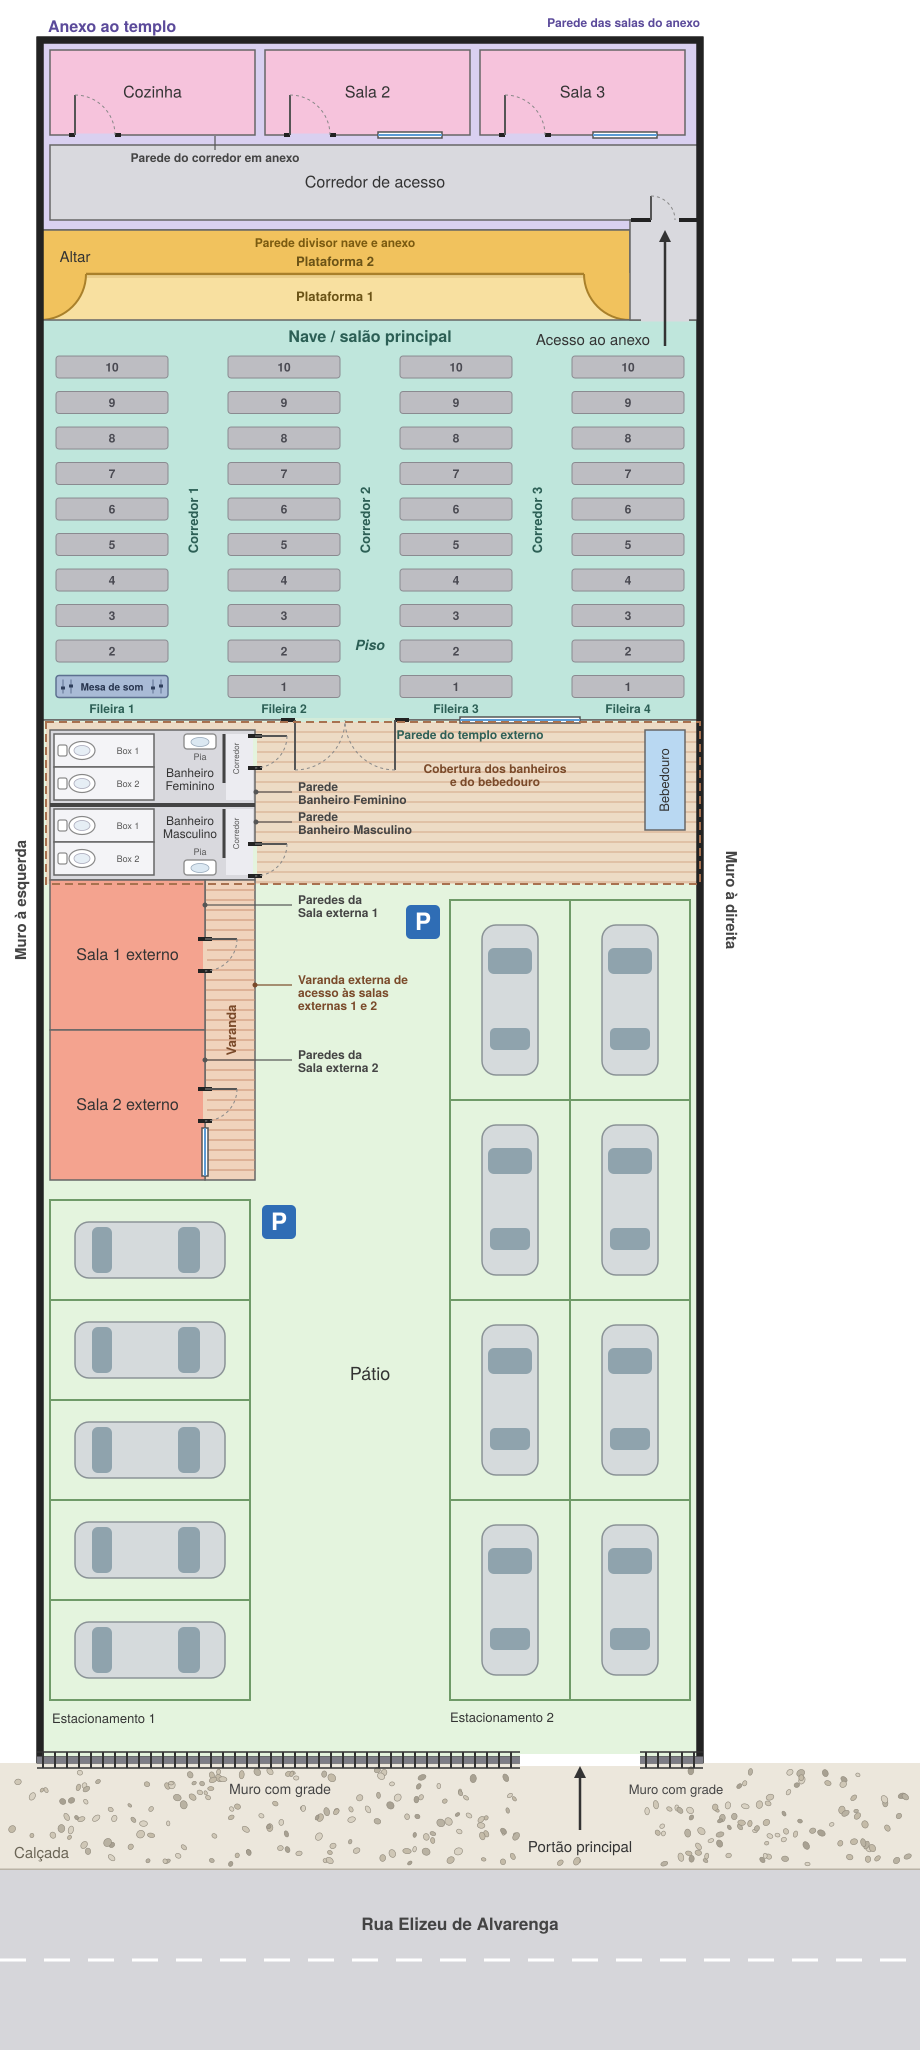
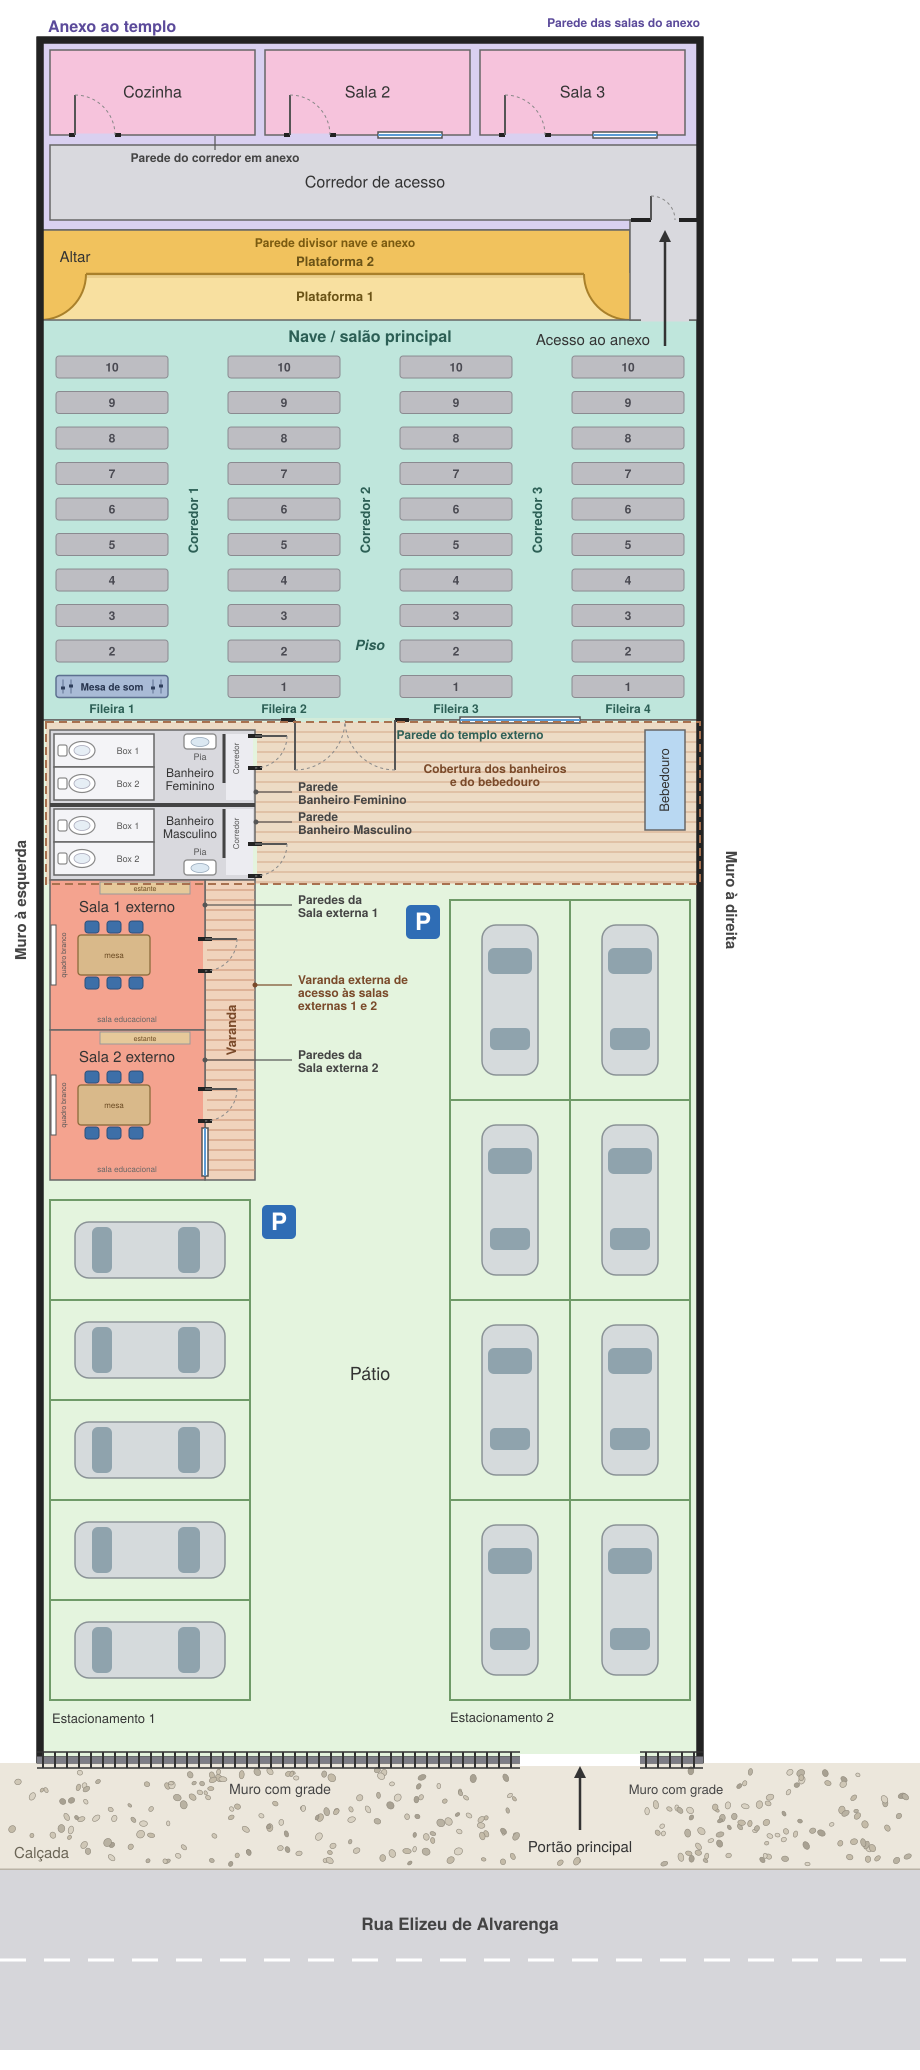
Salas externas (Igreja Atual e Maquete 2): mesa, cadeiras, quadro branco e estante
Claude-Session: https://claude.ai/code/session_015gh4tS64wXyJ2ghbw66cFX

Changed region(s): [[0.0304, 0.4019, 0.213, 0.5565]]

diff --git a/atual/maquete.html b/atual/maquete.html
@@ -557,6 +557,29 @@
   vwall(50, 730, 880, BH, [], 'HALF'); vwall(50, 880, 1180, BH, [], 'HALF');
   vwall(255, 730, 880, BH, [{ a: 730, b: 774.5, lh: 2.1 }, { a: 837.5, b: 880, lh: 2.1 }], 'HALF');   // portas: Feminino (cima) / Masculino (baixo)
   vwall(205, 880, 1180, BH, [door(955), door(1090), win(1146)], 'HALF');   // portas das salas externas + janela da Sala 2 externo (lado da varanda)
+
+  // ---- Salas educacionais externas (Sala 1 e Sala 2): mesa, 6 cadeiras escolares, quadro branco e estante ----
+  (function(){
+    function eduRoom(y0, y1){
+      var yc = (y0 + y1) / 2, wood = 0xd9b98a, blue = 0x3d6fa8, grey = 0x8a8f94;
+      box(1.45, 0.04, 0.8, wood, X(114), 0.74, Z(yc));
+      [[-0.65, -0.34], [0.65, -0.34], [-0.65, 0.34], [0.65, 0.34]].forEach(function(o){ box(0.05, 0.72, 0.05, grey, X(114) + o[0], 0.36, Z(yc) + o[1]); });
+      [92, 114, 136].forEach(function(cx){
+        [-1, 1].forEach(function(sg){
+          var cz = Z(yc) + sg * 0.56;
+          box(0.4, 0.04, 0.4, blue, X(cx), 0.45, cz);
+          box(0.4, 0.38, 0.04, blue, X(cx), 0.68, cz + sg * 0.2);
+          [[-0.17, -0.17], [0.17, -0.17], [-0.17, 0.17], [0.17, 0.17]].forEach(function(o){ box(0.03, 0.43, 0.03, grey, X(cx) + o[0], 0.215, cz + o[1]); });
+        });
+      });
+      box(0.03, 1.0, 1.8, 0xffffff, X(50) + 0.12, 1.5, Z(yc)); box(0.04, 1.06, 0.04, grey, X(50) + 0.12, 1.5, Z(yc) - 0.92); box(0.04, 1.06, 0.04, grey, X(50) + 0.12, 1.5, Z(yc) + 0.92);
+      box(0.06, 0.05, 1.86, grey, X(50) + 0.12, 0.98, Z(yc)); box(0.06, 0.05, 1.86, grey, X(50) + 0.12, 2.02, Z(yc));
+      var ez = Z(y0) + 0.12 + 0.18;
+      box(1.8, 1.8, 0.35, 0xe6c99a, X(145), 0.9, ez); [0.45, 0.9, 1.35].forEach(function(h){ box(1.74, 0.03, 0.33, 0xc9a87c, X(145), h, ez); });
+      [0xc0392b, 0x2e86c1, 0x27ae60, 0xf1c40f].forEach(function(c, i){ box(0.5, 0.3, 0.25, c, X(145) - 0.6 + i * 0.4, 0.62 + (i % 2) * 0.45, ez); });
+    }
+    eduRoom(880, 1030); eduRoom(1030, 1180);
+  })();
   [955, 1090].forEach(function(c){ doorLeaf(false, 205, c); });
   doorLeaf(false, 255, 752.25, 0.86, 2.08, 0.18); doorLeaf(false, 255, 858.75, 0.86, 2.08, 0.18);   // portas de madeira dos banheiros (acesso à pia): Feminino / Masculino
   [730, 805].forEach(function(y0){ [y0 + 20.5, y0 + 53.5].forEach(function(cy){ doorLeaf(false, 154, cy, 0.4, 1.68, 0.1); }); });   // portas de madeira dos boxes (acesso aos vasos)

diff --git a/projeto2/maquete.html b/projeto2/maquete.html
@@ -603,6 +603,29 @@
   vwall(50, 730, 880, BH, [], 'HALF'); vwall(50, 880, 1180, BH, [], 'HALF');
   vwall(255, 730, 880, BH, [{ a: 730, b: 774.5, lh: 2.1 }], 'HALF');   // PROJETO 2: porta da Sala de Apoio às Mamães   // portas: Feminino (cima) / Masculino (baixo)
   vwall(205, 880, 1180, BH, [door(955), door(1090), win(1146)], 'HALF');
+
+  // ---- Salas educacionais externas (Sala 1 e Sala 2): mesa, 6 cadeiras escolares, quadro branco e estante ----
+  (function(){
+    function eduRoom(y0, y1){
+      var yc = (y0 + y1) / 2, wood = 0xd9b98a, blue = 0x3d6fa8, grey = 0x8a8f94;
+      box(1.45, 0.04, 0.8, wood, X(114), 0.74, Z(yc));
+      [[-0.65, -0.34], [0.65, -0.34], [-0.65, 0.34], [0.65, 0.34]].forEach(function(o){ box(0.05, 0.72, 0.05, grey, X(114) + o[0], 0.36, Z(yc) + o[1]); });
+      [92, 114, 136].forEach(function(cx){
+        [-1, 1].forEach(function(sg){
+          var cz = Z(yc) + sg * 0.56;
+          box(0.4, 0.04, 0.4, blue, X(cx), 0.45, cz);
+          box(0.4, 0.38, 0.04, blue, X(cx), 0.68, cz + sg * 0.2);
+          [[-0.17, -0.17], [0.17, -0.17], [-0.17, 0.17], [0.17, 0.17]].forEach(function(o){ box(0.03, 0.43, 0.03, grey, X(cx) + o[0], 0.215, cz + o[1]); });
+        });
+      });
+      box(0.03, 1.0, 1.8, 0xffffff, X(50) + 0.12, 1.5, Z(yc)); box(0.04, 1.06, 0.04, grey, X(50) + 0.12, 1.5, Z(yc) - 0.92); box(0.04, 1.06, 0.04, grey, X(50) + 0.12, 1.5, Z(yc) + 0.92);
+      box(0.06, 0.05, 1.86, grey, X(50) + 0.12, 0.98, Z(yc)); box(0.06, 0.05, 1.86, grey, X(50) + 0.12, 2.02, Z(yc));
+      var ez = Z(y0) + 0.12 + 0.18;
+      box(1.8, 1.8, 0.35, 0xe6c99a, X(145), 0.9, ez); [0.45, 0.9, 1.35].forEach(function(h){ box(1.74, 0.03, 0.33, 0xc9a87c, X(145), h, ez); });
+      [0xc0392b, 0x2e86c1, 0x27ae60, 0xf1c40f].forEach(function(c, i){ box(0.5, 0.3, 0.25, c, X(145) - 0.6 + i * 0.4, 0.62 + (i % 2) * 0.45, ez); });
+    }
+    eduRoom(880, 1030); eduRoom(1030, 1180);
+  })();
   vwall(205, 1180, 1480, BH, [door(1215), win(1290), door(1365), win(1440)], 'HALF');   // PROJETO 2: portas e janelas da Cozinha e da Cantina (lado da varanda)
   [1215, 1365].forEach(function(c){ doorLeaf(false, 205, c); }); [1290, 1440].forEach(function(c){ winFrame(false, 205, c); });   // portas das salas externas + janela da Sala 2 externo (lado da varanda)
   [955, 1090].forEach(function(c){ doorLeaf(false, 205, c); });
